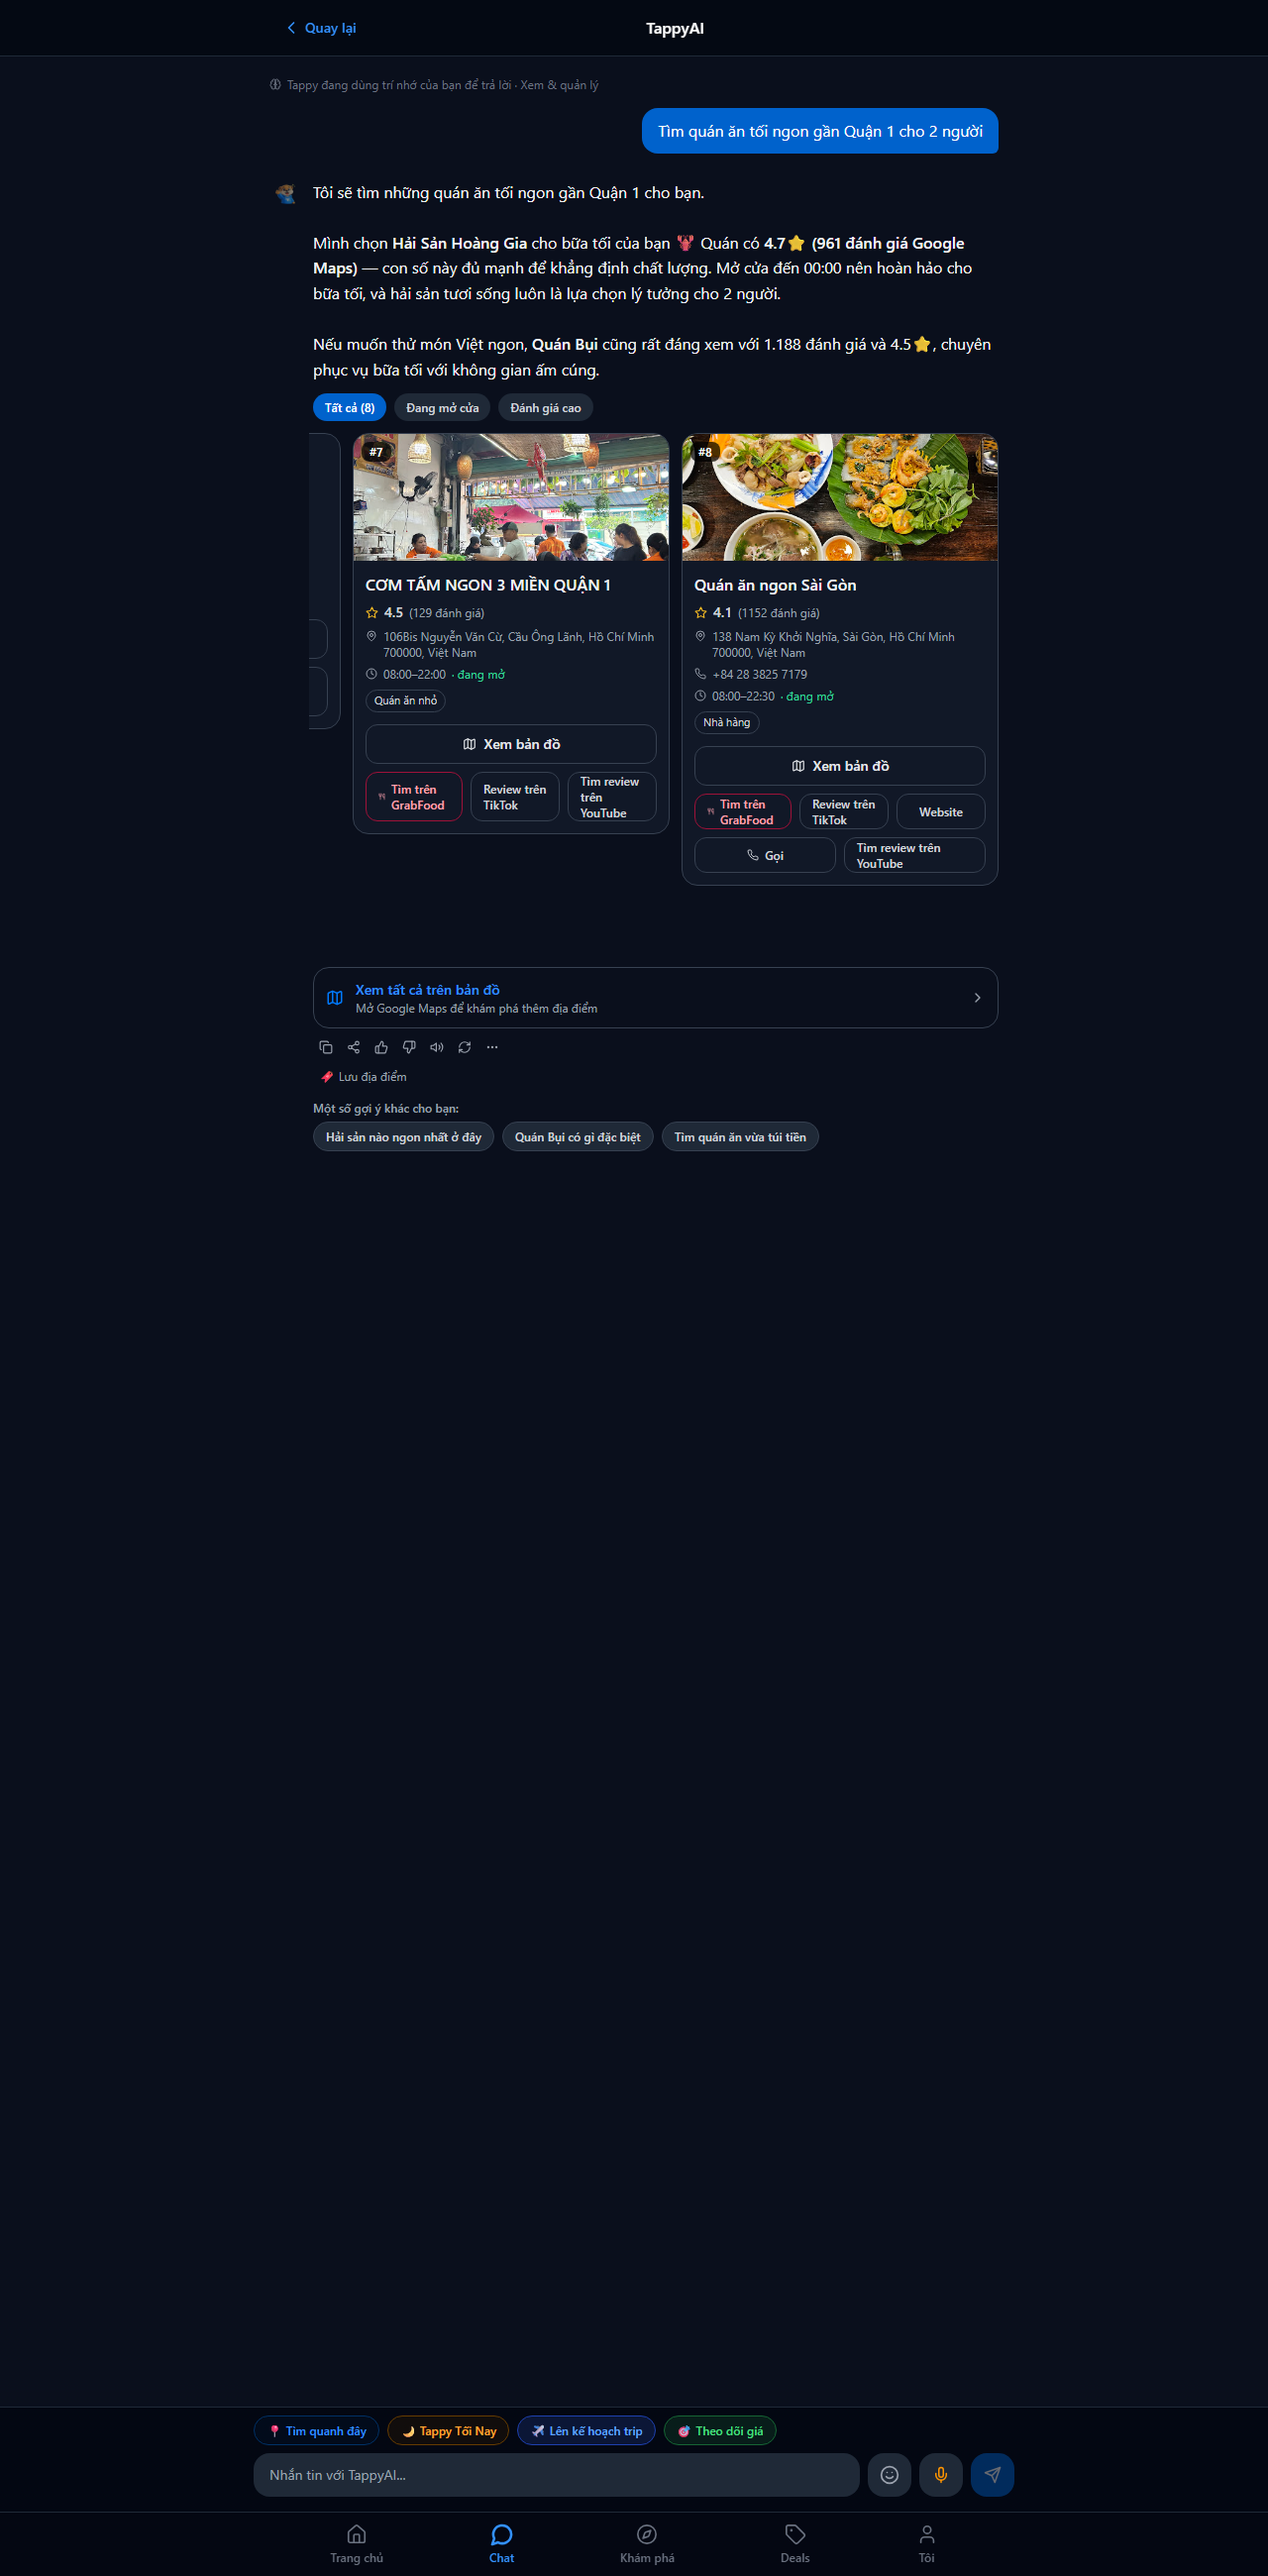
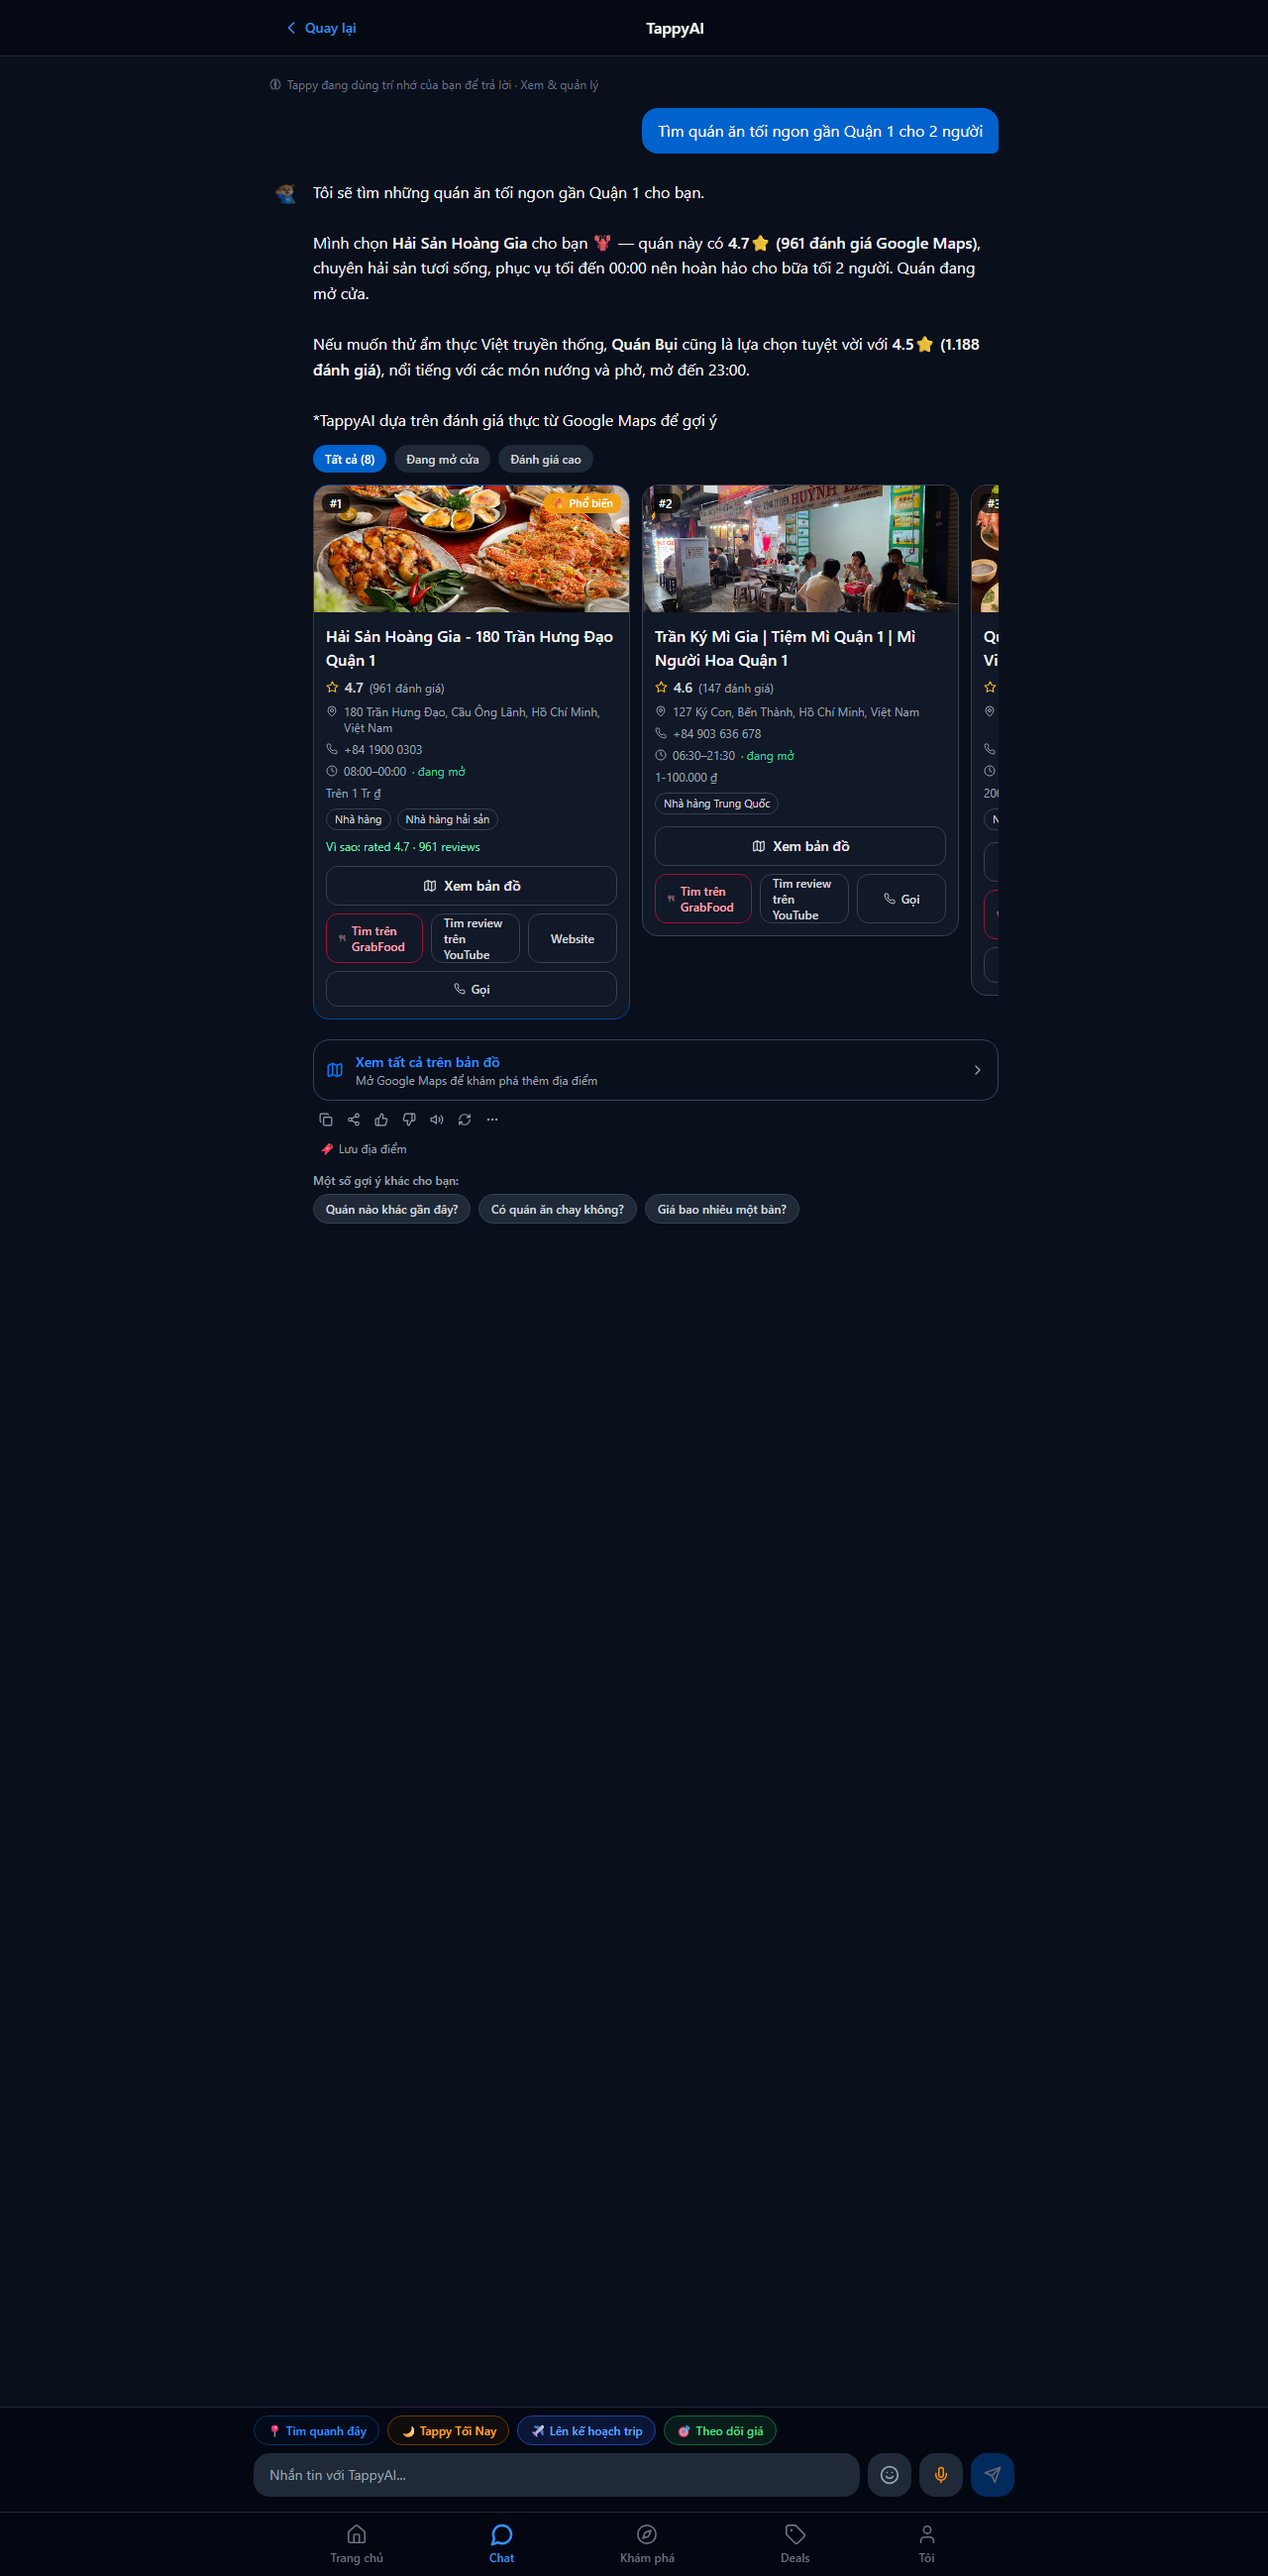
fix(web): place carousel stays inside its column (no negative margin bleed)

Changed region(s): [[0.25, 0.0935, 0.8125, 0.4985]]

diff --git a/src/components/chat/PlaceDecision.tsx b/src/components/chat/PlaceDecision.tsx
@@ -384,7 +384,7 @@ export default function PlaceDecision({ view }: { view: PlacesLiveView | null })
         data-testid="place-carousel"
         role="list"
         aria-label={t('placeDecision.carousel')}
-        className="-mx-1 flex snap-x snap-mandatory gap-3 overflow-x-auto overscroll-x-contain scroll-smooth px-1 pb-2 [scrollbar-width:thin]"
+        className="flex snap-x snap-mandatory gap-3 overflow-x-auto overscroll-x-contain scroll-smooth pb-2 [scrollbar-width:thin]"
       >
         {shown.map((p) => (
           <div key={p.id} role="listitem" className="w-[85%] flex-none snap-start sm:w-[320px]">
